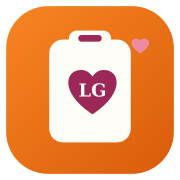
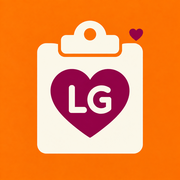
Mettre à jour le pictogramme sans bord blanc

diff --git a/index.html b/index.html
@@ -9,7 +9,7 @@
   <meta name="apple-mobile-web-app-title" content="Ma Todolist">
   <meta name="description" content="Mes tâches personnelles, professionnelles et du foyer, synchronisées sur tous mes appareils.">
   <title>Ma Todolist</title>
-  <link rel="icon" href="icon.svg" type="image/svg+xml">
+  <link rel="icon" href="icon-192.png" type="image/png">
   <link rel="apple-touch-icon" href="icon-180.png">
   <link rel="manifest" href="manifest.webmanifest">
   <style>
@@ -31,7 +31,7 @@
 </head>
 <body>
 <div class="app">
-  <header><img class="brand-icon" src="icon.svg" alt=""><div class="title"><h1>Ma Todolist</h1><p>Une place claire pour chaque chose à faire.</p></div><div class="account"><span class="account-status" id="syncStatus">Mode local</span><img id="avatar" class="avatar hidden" alt=""><button id="loginBtn" class="login">Se connecter</button><button id="logoutBtn" class="hidden">Quitter</button></div></header>
+  <header><img class="brand-icon" src="icon-192.png" alt=""><div class="title"><h1>Ma Todolist</h1><p>Une place claire pour chaque chose à faire.</p></div><div class="account"><span class="account-status" id="syncStatus">Mode local</span><img id="avatar" class="avatar hidden" alt=""><button id="loginBtn" class="login">Se connecter</button><button id="logoutBtn" class="hidden">Quitter</button></div></header>
   <main>
     <div id="notice" class="notice">Connecte-toi avec Google pour retrouver tes tâches sur tous tes appareils.</div>
     <section class="panel active" id="todayPanel" style="--accent:var(--today)"><div class="hero"><div><h2 id="hello">Aujourd’hui</h2><p>Voici l’essentiel de ta journée.</p></div><div class="date-pill" id="todayDate"></div></div><div class="progress"><strong id="progressLabel">0 tâche terminée</strong><span id="progressCount">0 sur 0</span><div class="bar"><i id="progressBar"></i></div></div><form class="composer" data-category="personal"><input required maxlength="160" placeholder="Ajouter une tâche pour aujourd’hui…" aria-label="Nouvelle tâche pour aujourd’hui"><button class="add">Ajouter</button></form><div id="todayTasks" class="tasks"></div></section>

diff --git a/service-worker.js b/service-worker.js
@@ -1,1 +1,1 @@
-const CACHE='ma-todolist-v1';const ASSETS=['./','./index.html','./icon.svg','./icon-180.png','./icon-192.png','./icon-512.png','./manifest.webmanifest'];self.addEventListener('install',e=>e.waitUntil(caches.open(CACHE).then(c=>c.addAll(ASSETS)).then(()=>self.skipWaiting())));self.addEventListener('activate',e=>e.waitUntil(caches.keys().then(keys=>Promise.all(keys.filter(k=>k!==CACHE).map(k=>caches.delete(k)))).then(()=>self.clients.claim())));self.addEventListener('fetch',e=>{if(e.request.method!=='GET')return;e.respondWith(fetch(e.request).then(r=>{const copy=r.clone();caches.open(CACHE).then(c=>c.put(e.request,copy));return r}).catch(()=>caches.match(e.request).then(r=>r||caches.match('./index.html'))))});
+const CACHE='ma-todolist-v2';const ASSETS=['./','./index.html','./icon-180.png','./icon-192.png','./icon-512.png','./manifest.webmanifest'];self.addEventListener('install',e=>e.waitUntil(caches.open(CACHE).then(c=>c.addAll(ASSETS)).then(()=>self.skipWaiting())));self.addEventListener('activate',e=>e.waitUntil(caches.keys().then(keys=>Promise.all(keys.filter(k=>k!==CACHE).map(k=>caches.delete(k)))).then(()=>self.clients.claim())));self.addEventListener('fetch',e=>{if(e.request.method!=='GET')return;e.respondWith(fetch(e.request).then(r=>{const copy=r.clone();caches.open(CACHE).then(c=>c.put(e.request,copy));return r}).catch(()=>caches.match(e.request).then(r=>r||caches.match('./index.html'))))});
